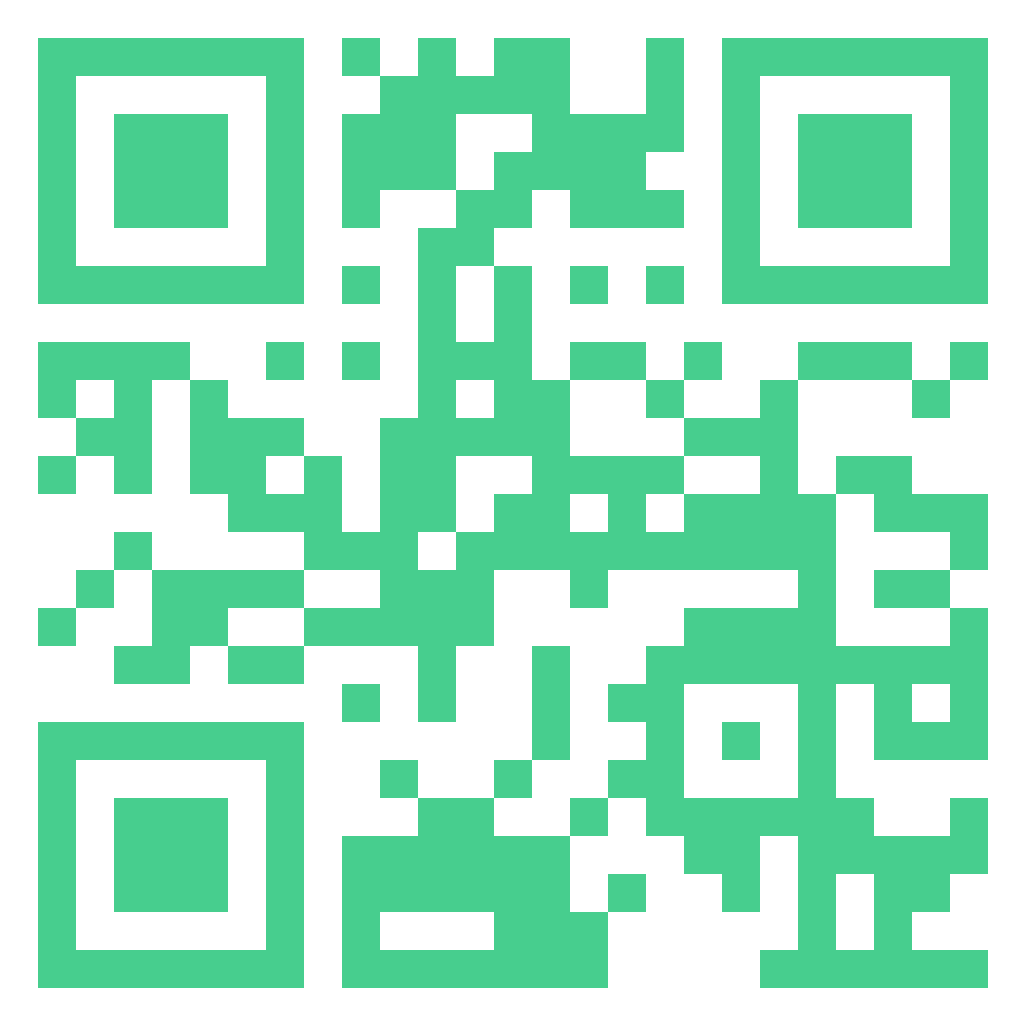
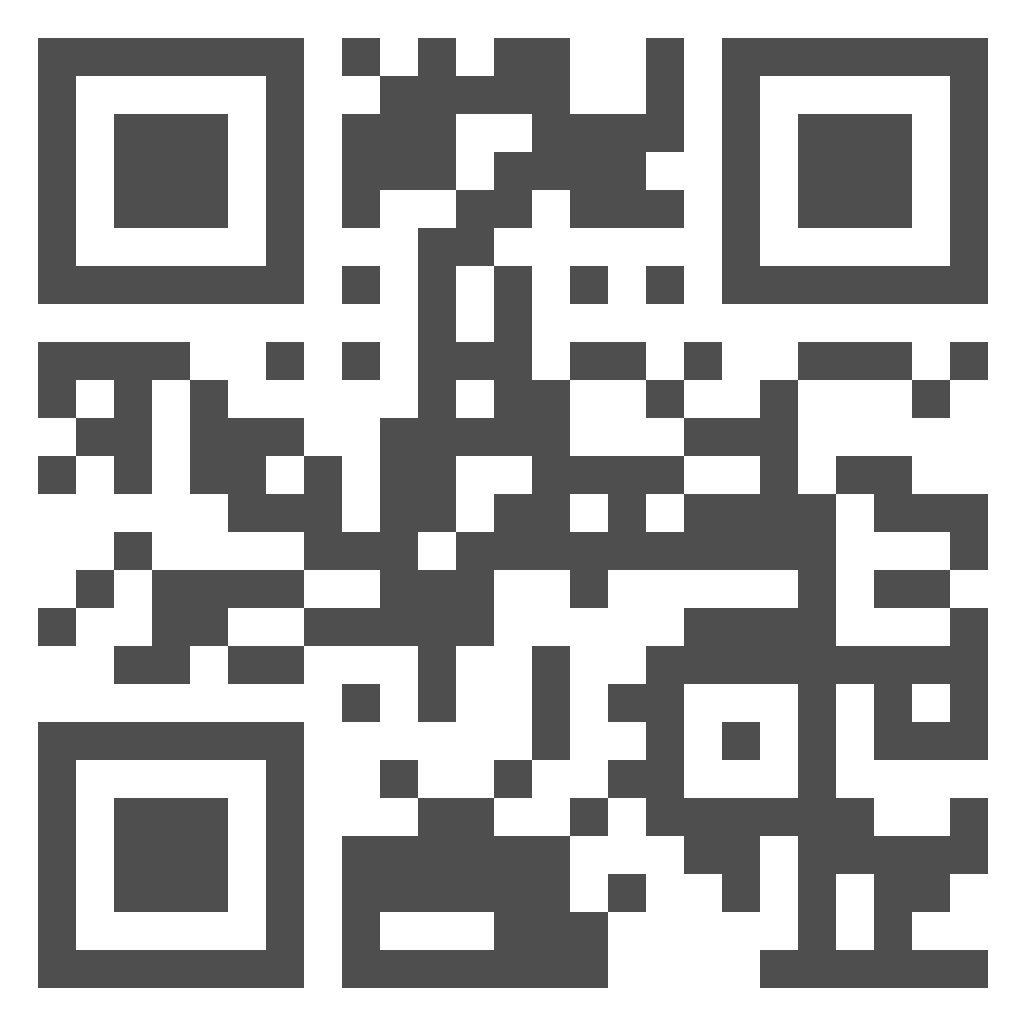
layout fix

diff --git a/src/layouts/sale-site/navbar/index.tsx b/src/layouts/sale-site/navbar/index.tsx
@@ -43,8 +43,8 @@ export default function Navbar() {
           >
             <Typography variant={"logo"}>Shares</Typography>
             <Box
-              width={8}
-              height={8}
+              width={7}
+              height={7}
               bgcolor={"primary.main"}
               borderRadius={"50%"}
             />
@@ -67,11 +67,11 @@ export default function Navbar() {
                 variant={"contained"}
                 sx={{
                   ...BUTTON_STYLES,
-                  color: "text.heading",
-                  borderColor: "text.stroke",
-                  background: "transparent",
+                  color: "primary.main",
+                  borderColor: "common.button",
+                  backgroundColor: "common.button",
                   ":hover": {
-                    backgroundColor: "text.stroke",
+                    backgroundColor: "common.button",
                   },
                 }}
                 disableElevation
@@ -86,10 +86,10 @@ export default function Navbar() {
                 sx={{
                   ...BUTTON_STYLES,
                   color: "grey.50",
-                  borderColor: "common.bgDark",
-                  backgroundColor: "common.bgDark",
+                  borderColor: "primary.main",
+                  backgroundColor: "primary.main",
                   ":hover": {
-                    backgroundColor: "common.bgDark",
+                    backgroundColor: "primary.main",
                   },
                 }}
                 disableElevation

diff --git a/src/layouts/sale-site/footer/footer-nav/index.tsx b/src/layouts/sale-site/footer/footer-nav/index.tsx
@@ -42,8 +42,8 @@ export default function FooterNav() {
         >
           <Typography variant={"logo"}>Shares</Typography>
           <Box
-            width={8}
-            height={8}
+            width={7}
+            height={7}
             bgcolor={"primary.main"}
             borderRadius={"50%"}
           />
@@ -75,7 +75,11 @@ export default function FooterNav() {
             gap={2}
             key={parent.id}
           >
-            <Typography variant={"body1"} fontWeight={700}>
+            <Typography
+              variant={"body1"}
+              fontWeight={700}
+              color={"text.heading"}
+            >
               {parent.title}
             </Typography>
             <List sx={{ pt: 0 }}>

diff --git a/src/theme/palette.tsx b/src/theme/palette.tsx
@@ -1,11 +1,11 @@
 import { PaletteMode, PaletteOptions } from "@mui/material";
 
 const PRIMARY = {
-  main: "#47CE8E",
-  50: "#74ECB3",
-  25: "#9CF9CD",
-  10: "#C1FFE2",
-  5: "#EEFFF7",
+  main: "#4E4E4E",
+  50: "#6C6C6C",
+  25: "#A6A6A6",
+  10: "#C4C4C4",
+  5: "#DCDCDC",
 };
 
 const GREY = {
@@ -55,7 +55,7 @@ const GRADIENTS = {
 
 const OPACITY = {
   success: "#47CE8E4D",
-  qrCode: "#47CE8E1A",
+  qrCode: "#4E4E4E1A",
   shadow: "#18AF4233",
 };
 
@@ -65,6 +65,7 @@ const COMMON = {
     white: "#FFFFFF",
     bgDark: "#232121",
     bgLight: "#F8FAF8",
+    button: "#F5F0EB",
   },
   primary: { ...PRIMARY },
   text: { ...TEXT },

diff --git a/src/layouts/sale-site/footer/index.tsx b/src/layouts/sale-site/footer/index.tsx
@@ -13,7 +13,7 @@ export default function Footer() {
         maxWidth={theme.breakpoints.values.lg - 20}
         width={"100%"}
         borderRadius={10}
-        bgcolor={"primary.main"}
+        bgcolor={"common.button"}
         my={5}
         height={"100%"}
         overflow={"hidden"}
@@ -33,7 +33,7 @@ export default function Footer() {
                 variant={"heading1"}
                 component={"h1"}
                 fontWeight={700}
-                color={"grey.50"}
+                color={"primary.main"}
               >
                 The modern way for anyone to invest in real estate
               </Typography>

diff --git a/src/layouts/sale-site/header/index.tsx b/src/layouts/sale-site/header/index.tsx
@@ -41,8 +41,8 @@ export default function Header() {
             >
               <Typography variant={"logo"}>Shares</Typography>
               <Box
-                width={8}
-                height={8}
+                width={7}
+                height={7}
                 bgcolor={"primary.main"}
                 borderRadius={"50%"}
               />

diff --git a/src/layouts/sale-site/drawer/index.tsx b/src/layouts/sale-site/drawer/index.tsx
@@ -49,8 +49,8 @@ export default function DrawerSaleSite({
           >
             <Typography variant={"logo"}>Shares</Typography>
             <Box
-              width={8}
-              height={8}
+              width={7}
+              height={7}
               bgcolor={"primary.main"}
               borderRadius={"50%"}
             />

diff --git a/src/assets/icons/sale-site/footer-facebook-icon.tsx b/src/assets/icons/sale-site/footer-facebook-icon.tsx
@@ -1,8 +1,8 @@
 import { IAssetsProps } from "@/interfaces";
 
 const FooterFacebookIcon = ({
-  fill = "#EEFFF7",
-  stroke = "#47CE8E",
+  fill = "#F5F0EB4D",
+  stroke = "#4E4E4E",
 }: IAssetsProps) => {
   return (
     <svg

diff --git a/src/assets/icons/sale-site/footer-whatsapp-icon.tsx b/src/assets/icons/sale-site/footer-whatsapp-icon.tsx
@@ -1,8 +1,8 @@
 import { IAssetsProps } from "@/interfaces";
 
 const FooterWhatsappIcon = ({
-  fill = "#EEFFF7",
-  stroke = "#47CE8E",
+  fill = "#F5F0EB4D",
+  stroke = "#4E4E4E",
 }: IAssetsProps) => {
   return (
     <svg

diff --git a/src/assets/icons/sale-site/footer-dribble-icon.tsx b/src/assets/icons/sale-site/footer-dribble-icon.tsx
@@ -1,8 +1,8 @@
 import { IAssetsProps } from "@/interfaces";
 
 const FooterDribbleIcon = ({
-  fill = "#EEFFF7",
-  stroke = "#47CE8E",
+  fill = "#F5F0EB4D",
+  stroke = "#4E4E4E",
 }: IAssetsProps) => {
   return (
     <svg

diff --git a/src/assets/icons/sale-site/footer-youtube-icon.tsx b/src/assets/icons/sale-site/footer-youtube-icon.tsx
@@ -1,8 +1,8 @@
 import { IAssetsProps } from "@/interfaces";
 
 const FooterYoutubeIcon = ({
-  fill = "#EEFFF7",
-  stroke = "#47CE8E",
+  fill = "#F5F0EB4D",
+  stroke = "#4E4E4E",
 }: IAssetsProps) => {
   return (
     <svg

diff --git a/src/assets/icons/sale-site/footer-figma-icon.tsx b/src/assets/icons/sale-site/footer-figma-icon.tsx
@@ -1,8 +1,8 @@
 import { IAssetsProps } from "@/interfaces";
 
 const FooterFigmaIcon = ({
-  fill = "#EEFFF7",
-  stroke = "#47CE8E",
+  fill = "#F5F0EB4D",
+  stroke = "#4E4E4E",
 }: IAssetsProps) => {
   return (
     <svg

diff --git a/src/theme/theme.d.ts b/src/theme/theme.d.ts
@@ -28,6 +28,7 @@ declare module "@mui/material/styles" {
   interface CommonColors {
     bgDark: string;
     bgLight: string;
+    button: string;
   }
 
   interface PaletteColor {
